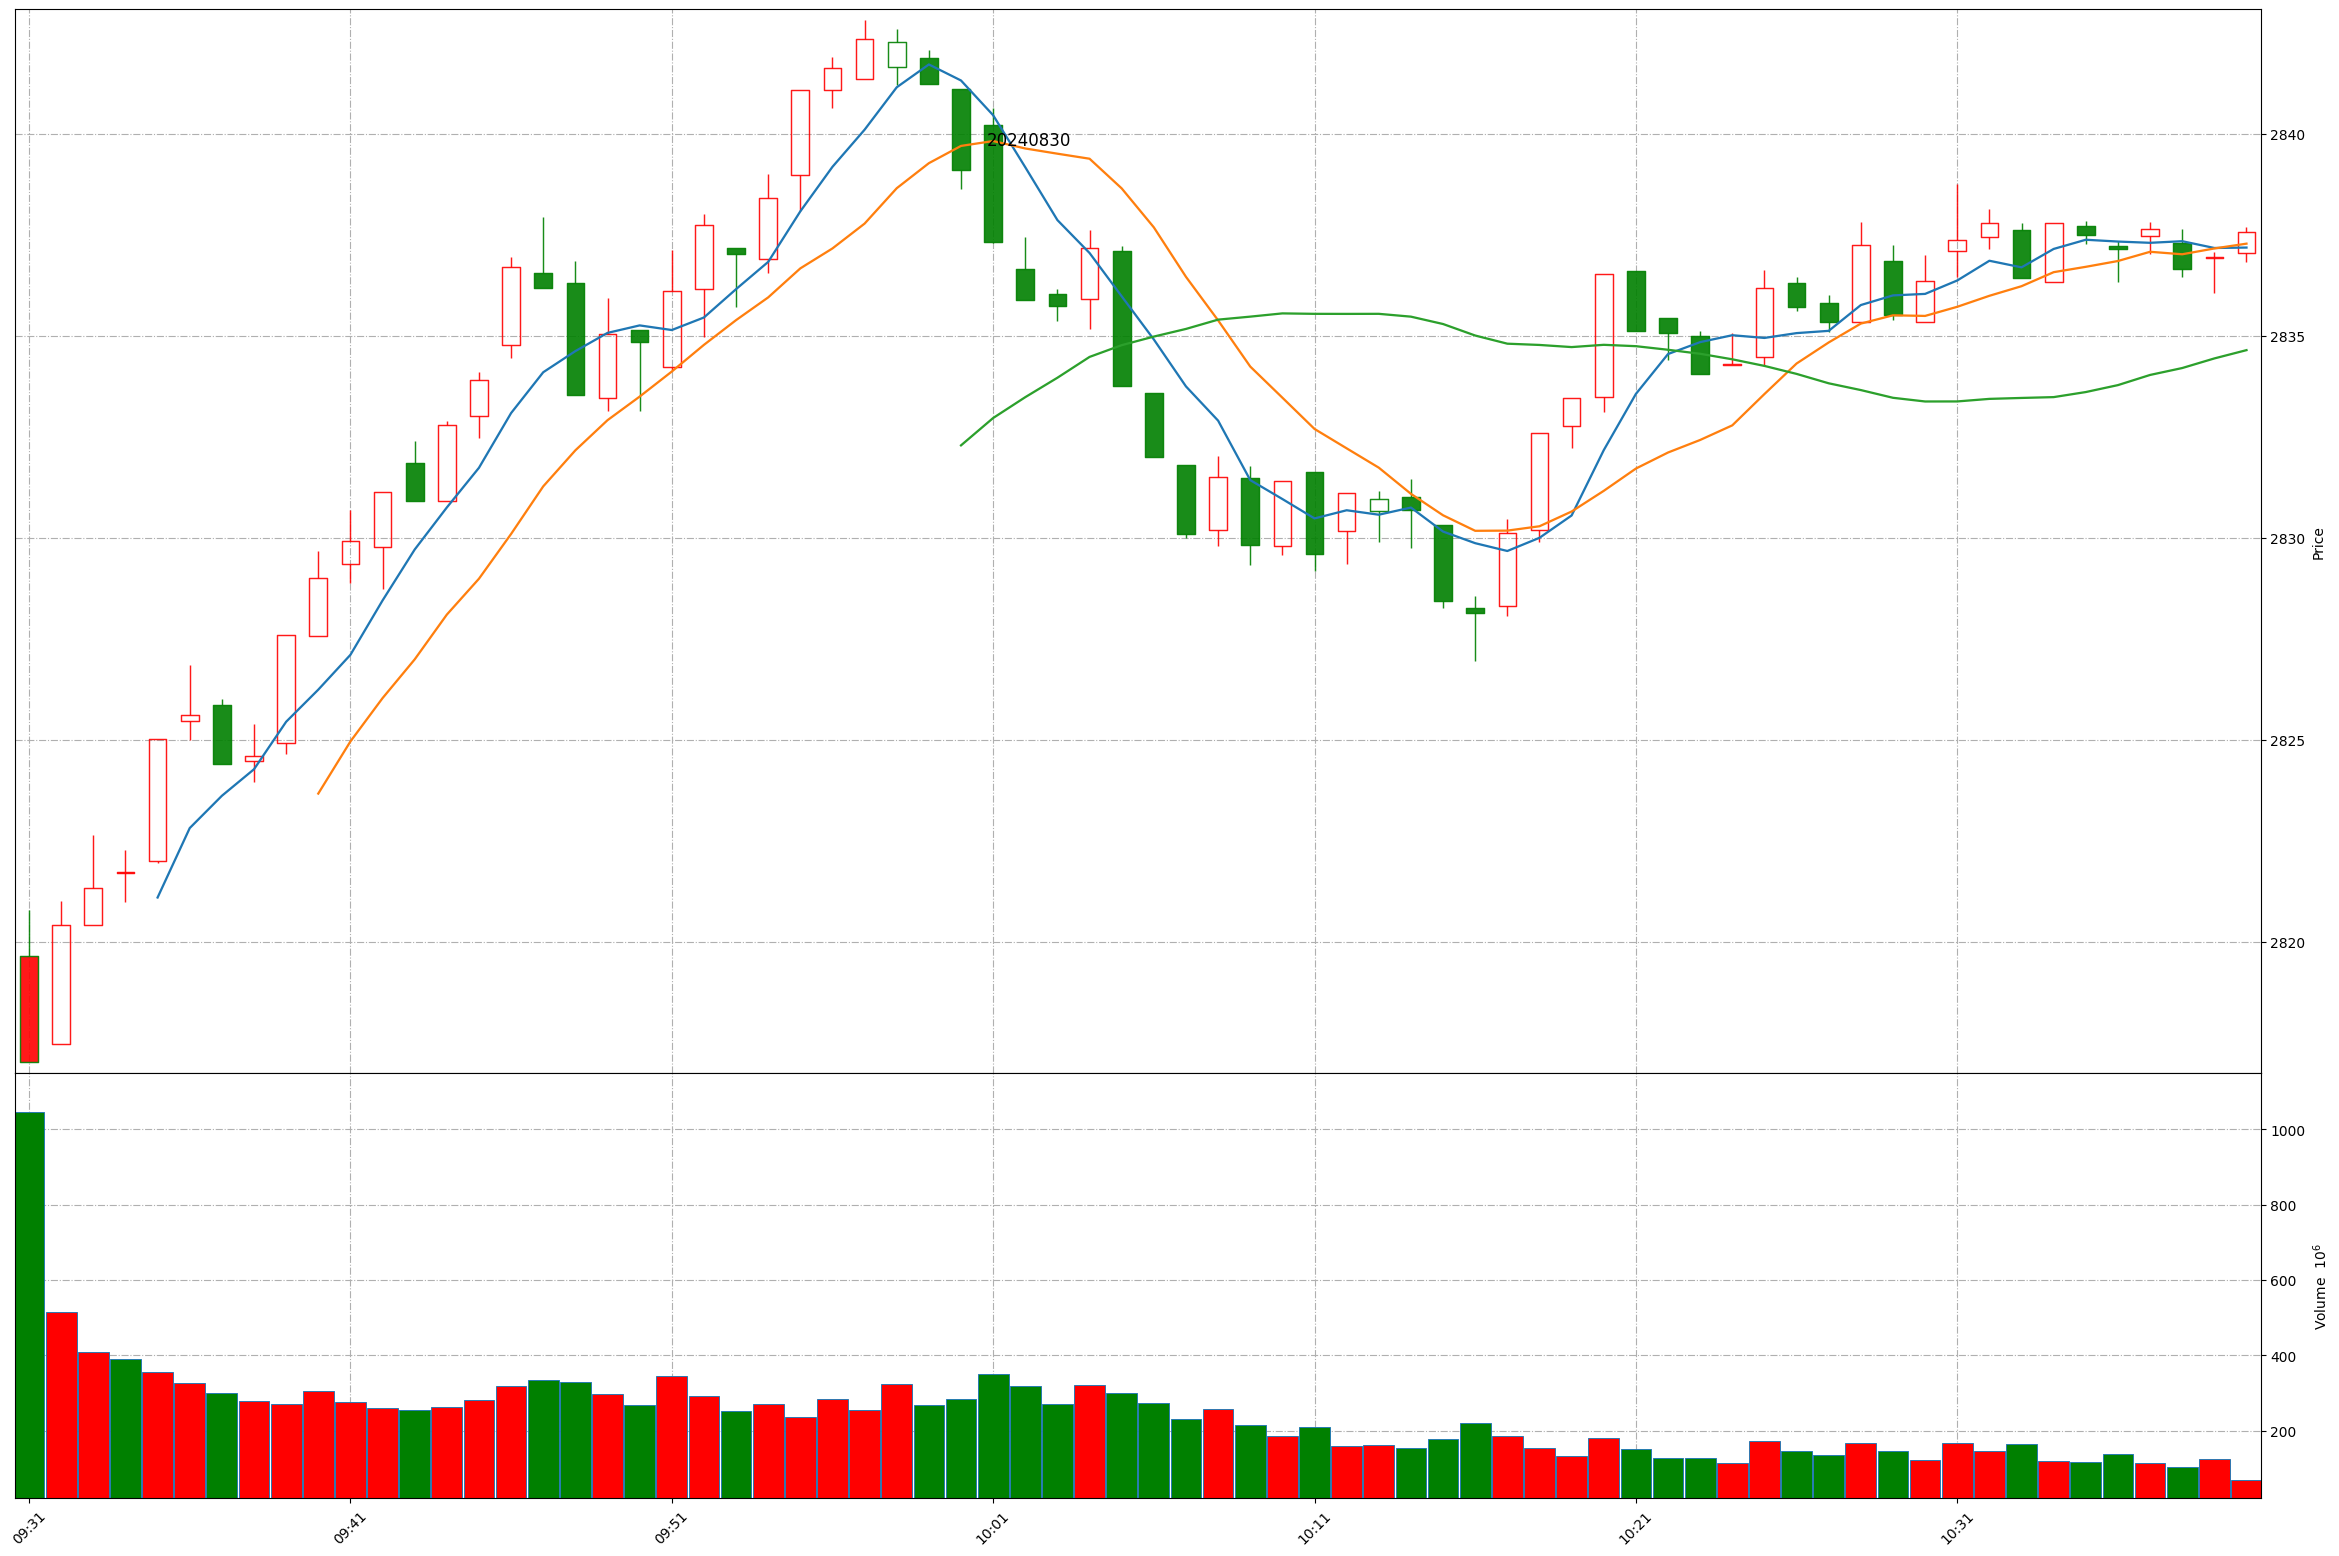
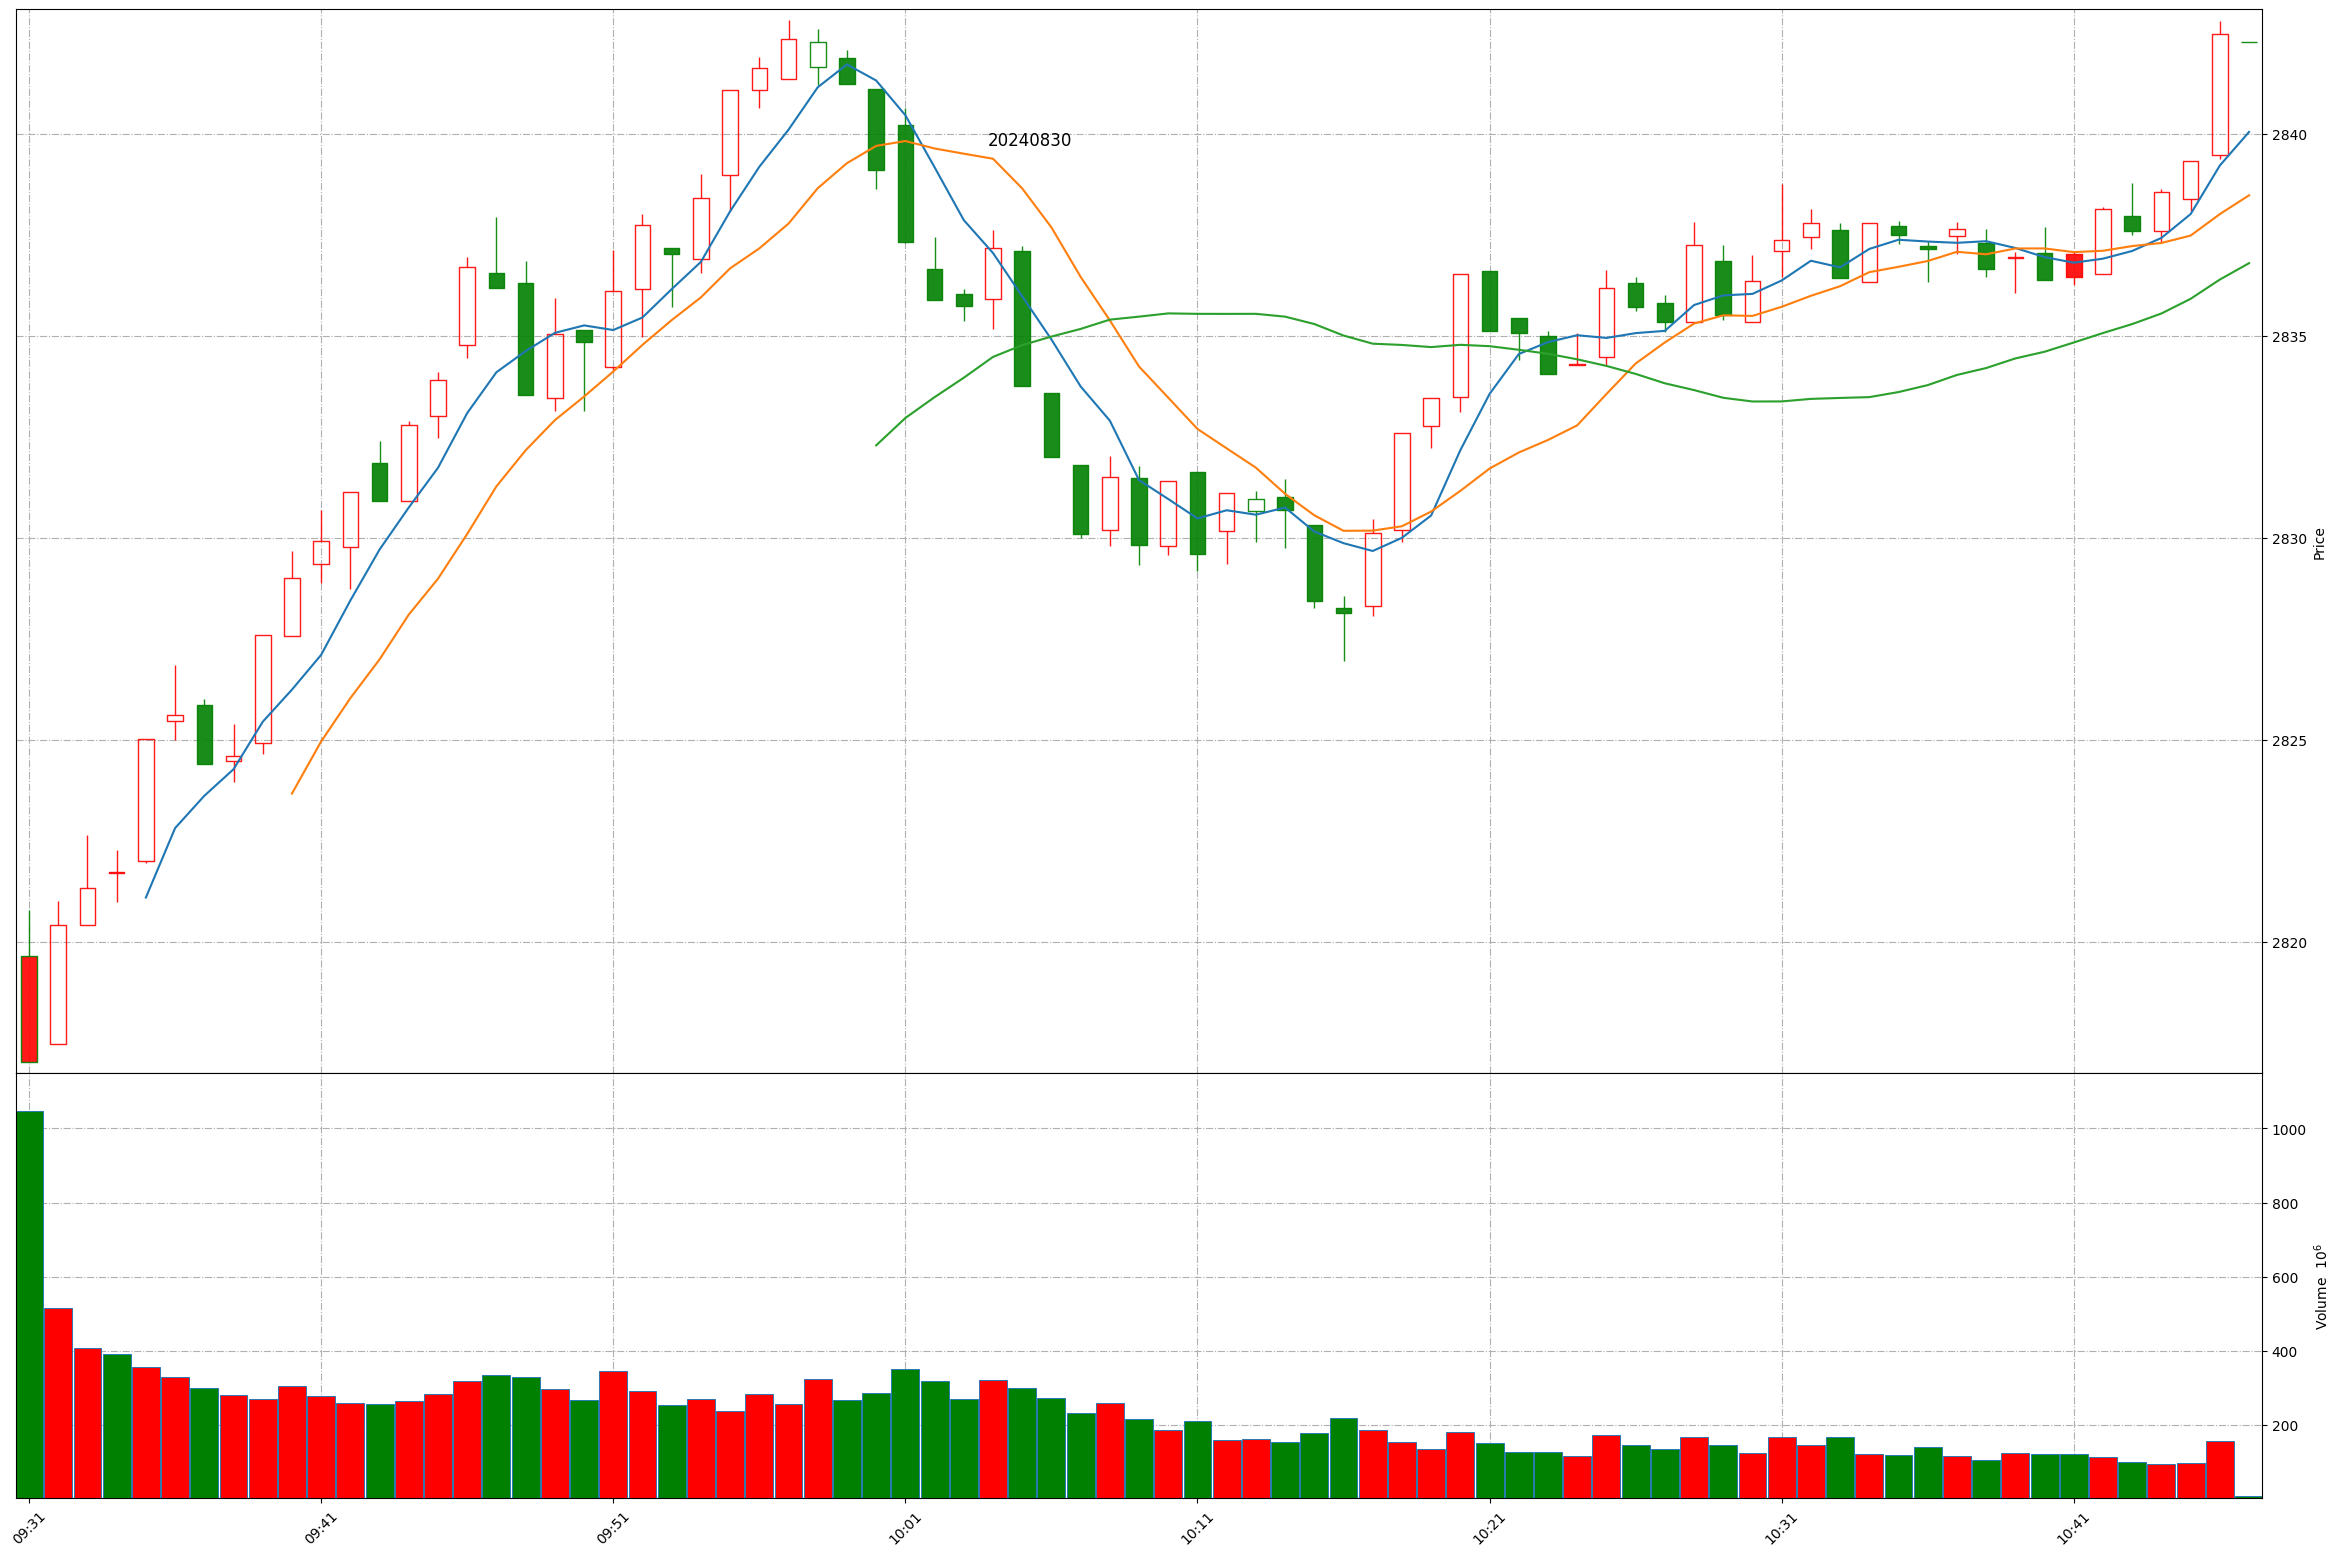
Github action update at 2024-08-30 10:46:20.

diff --git a/README.md b/README.md
@@ -1,11 +1,11 @@
 
 # Daily-A-share-market-quotes 每日 A 股指数（5min 更新）- 20240830
 
-### 上证指数 20240830 10:39
+### 上证指数 20240830 10:46
 ![](./fig/2024/8/20240830-sh000001.png)
 
-### 深证成指 20240830 10:39
+### 深证成指 20240830 10:46
 ![](./fig/2024/8/20240830-sz399001.png)
 
-### 北证50 20240830 10:39
+### 北证50 20240830 10:46
 ![](./fig/2024/8/20240830-bj899050.png)
